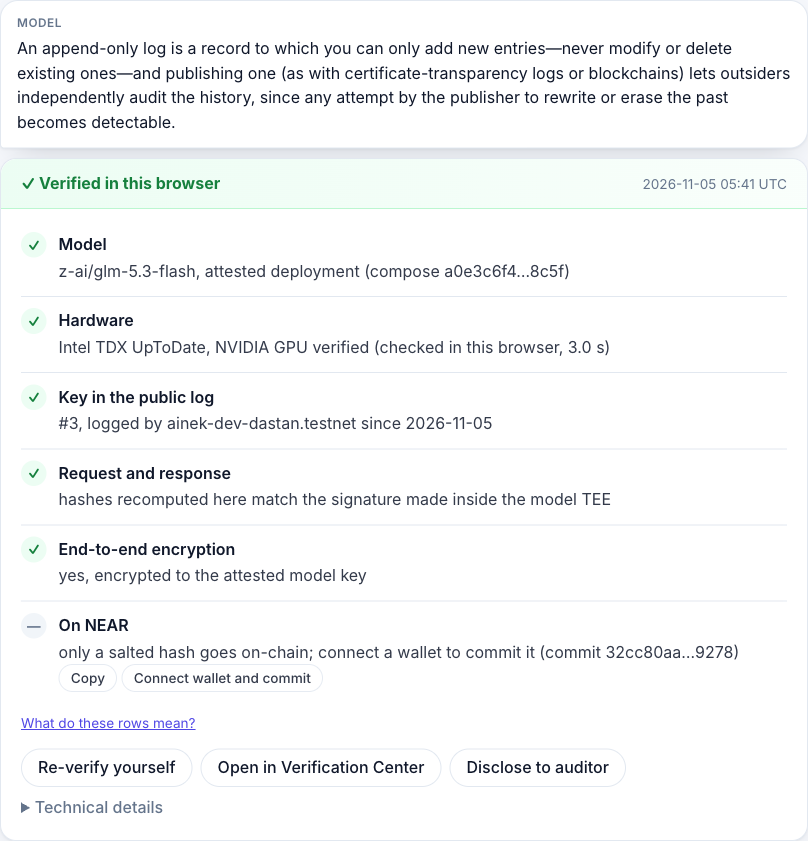
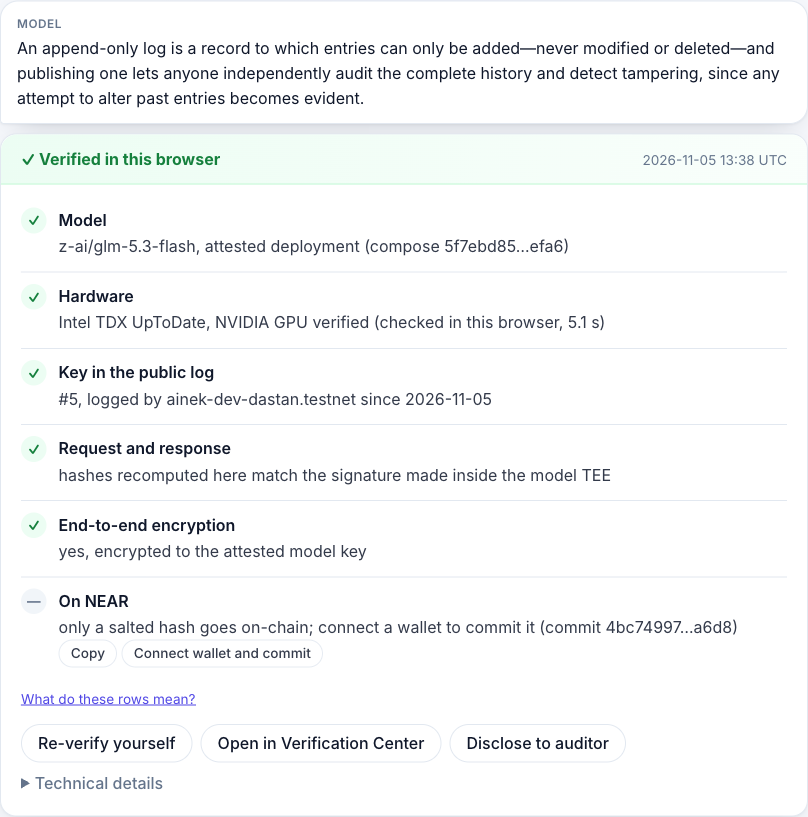
docs: re-shoot the card and the log, describe the compose fallback

diff --git a/docs/DEV-NOTES.md b/docs/DEV-NOTES.md
@@ -886,8 +886,9 @@ Verifier): `VERIFIER_ACCOUNT_ID`, `VERIFIER_PRIVATE_KEY`, `VERIFIER_MODELS`, `VE
 аттестованным compose, а без такой записи самую свежую с ключом. Так работают браузер и `tier1-node` (`demo:live`,
 `demo:metrics`, агент); replay и раньше передавал compose в запросе.
 
-Compose теперь считает одна функция, `composeHashOf`, и верификатор, и клиент: измерение из квоты, без него
-`sha256(app_compose)`.
+Compose теперь считает одна функция, `composeHashOf`, для верификатора, браузера, `tier1-node` и replay: значение события
+`compose-hash` из RTMR3, а если оно пустое или его нет, `sha256(app_compose)`. Когда в окне лога нет записи с аттестованным
+compose, карточка и `demo:live` пишут об этом рядом с номером записи.
 
 Новых отказов нет. Отказ, когда compose нет в логе (SPEC §7.1, шаг 2), по-прежнему ждёт решения команды. Для него мало
 передать `composeHash` в `evaluateKeyLog` в двух местах: ключ, залогированный с другим compose, получит причину `absent`
@@ -898,4 +899,14 @@ Compose не входит в proof: совпадение проверяется 
 значит менять схему proof, это к тому же решению. Подпись сама по себе не говорит, какой из деплоев ответил, потому что
 ключ общий (README, CLAIMS).
 
-Проверка: `pnpm demo:live` 5 раз, `a0e3c6f4…` → #4 (4 раза), `5f7ebd85…` → #5 (1 раз); браузер, `a0e3c6f4…` → #4.
+Сейчас не воспроизводится, но держим в голове, все три пункта были и до этой правки:
+- `confirmedBy` считает верификаторов по ключу, а не по паре (ключ, compose). С двумя верификаторами карточка может назвать
+  того, кто эту запись не писал, а кворум 2 пройдёт без двух подтверждений одного compose. Это к тому же решению по §7.1.
+- SDK `findModelAttestationForSignature` бросает `api.ambiguous_model_attestation_signer`, если в одном отчёте две реплики с
+  одним ключом. Тогда сообщение уже отправлено, а `sdk-check` падает. В скане 2 ноября в каждом из 20 отчётов была одна реплика.
+- «Самая свежая» опирается на порядок `latest_keys` (от новых к старым, есть тест в контракте).
+
+Проверка: `pnpm demo:live` 5 раз, `a0e3c6f4…` → #4 (4 раза), `5f7ebd85…` → #5 (1 раз); браузер, оба compose: #4 и #5.
+Откат: в браузере подменён ответ `latest_keys` (у всех записей чужой compose), карточка показала №5 с пометкой на EN и RU;
+`demo:live` на записи-образце (`a0e3c6f4…`) при аттестации `5f7ebd85…` показал #0 с той же пометкой. `proof-card.png` и
+`log.png` пересняты, теперь они согласованы: `5f7ebd85…` → #5.

diff --git a/README.md b/README.md
@@ -54,7 +54,8 @@ measurements to an approved allowlist"; Brave, built on NEAR AI, wrote on Oct 15
 | ![The public key log page](docs/screenshots/log.png) | ![The auditor verdict card](docs/screenshots/auditor.png) |
 
 The card's compose hash comes from the attestation checked before sending, and its log entry is the newest one with that
-key and that compose. See "What we do not claim".
+key and that compose; if the log window has none, it is the newest for the key and the card says so. See "What we do not
+claim".
 
 ## How NEAR is used
 
@@ -148,9 +149,10 @@ ships E2EE v3, a relay that did so could read the replies it diverted, and the c
   we serve it. `pnpm -F web dev` from a clean clone, or `pnpm demo:live`, removes that trust.
 - **A measurement allowlist.** Our log is a *key* allowlist: the client sends only to a key a trusted verifier logged. The
   offline replay also compares the attested compose hash with the logged one; the browser and `demo:live` show it on the
-  card and point the proof at a log entry with that compose when there is one, but still send when there is none (SPEC §7.1
-  asks for a refusal; enforcing it is a pending team decision), and acceptable compose hashes are not governed yet (next
-  steps). Instances of a model share one signing key, so the signature alone does not say which deployment answered.
+  card and point the proof at a log entry with that compose when there is one, but still send when there is none, and the
+  card says so (SPEC §7.1 asks for a refusal; enforcing it is a pending team decision), and acceptable compose hashes are not
+  governed yet (next steps). Instances of a model share one signing key, so the signature alone does not say which deployment
+  answered.
 - **Instant revocation.** The browser reuses a verification for up to 60 minutes and accepts a log entry up to 24 hours old;
   the log has no revoke entry yet.
 - **Unlinkable usage.** Each commit is a transaction from your NEAR account: the chain shows who used Ainek, when and how often.

diff --git a/docs/CLAIMS.md b/docs/CLAIMS.md
@@ -44,9 +44,10 @@ Honest limitations won prizes at previous NEAR hackathons.
   we serve it. `pnpm -F web dev` from a clean clone, or `pnpm demo:live`, removes that trust.
 - **A measurement allowlist.** Our log is a *key* allowlist: the client sends only to a key a trusted verifier logged. The
   offline replay also compares the attested compose hash with the logged one; the browser and `demo:live` show it on the
-  card and point the proof at a log entry with that compose when there is one, but still send when there is none (SPEC §7.1
-  asks for a refusal; enforcing it is a pending team decision), and acceptable compose hashes are not governed yet (next
-  steps). Instances of a model share one signing key, so the signature alone does not say which deployment answered.
+  card and point the proof at a log entry with that compose when there is one, but still send when there is none, and the
+  card says so (SPEC §7.1 asks for a refusal; enforcing it is a pending team decision), and acceptable compose hashes are not
+  governed yet (next steps). Instances of a model share one signing key, so the signature alone does not say which deployment
+  answered.
 - **A trustless read of the log.** The client reads `latest_keys` through one JSON-RPC endpoint (FastNear by default,
   `NEAR_RPC_URL`) with no light-client proof, so "checked against the public log" means "checked against what that endpoint
   says the log holds". A lying endpoint can pass an unlogged key or refuse a logged one; it cannot route you to an unattested
